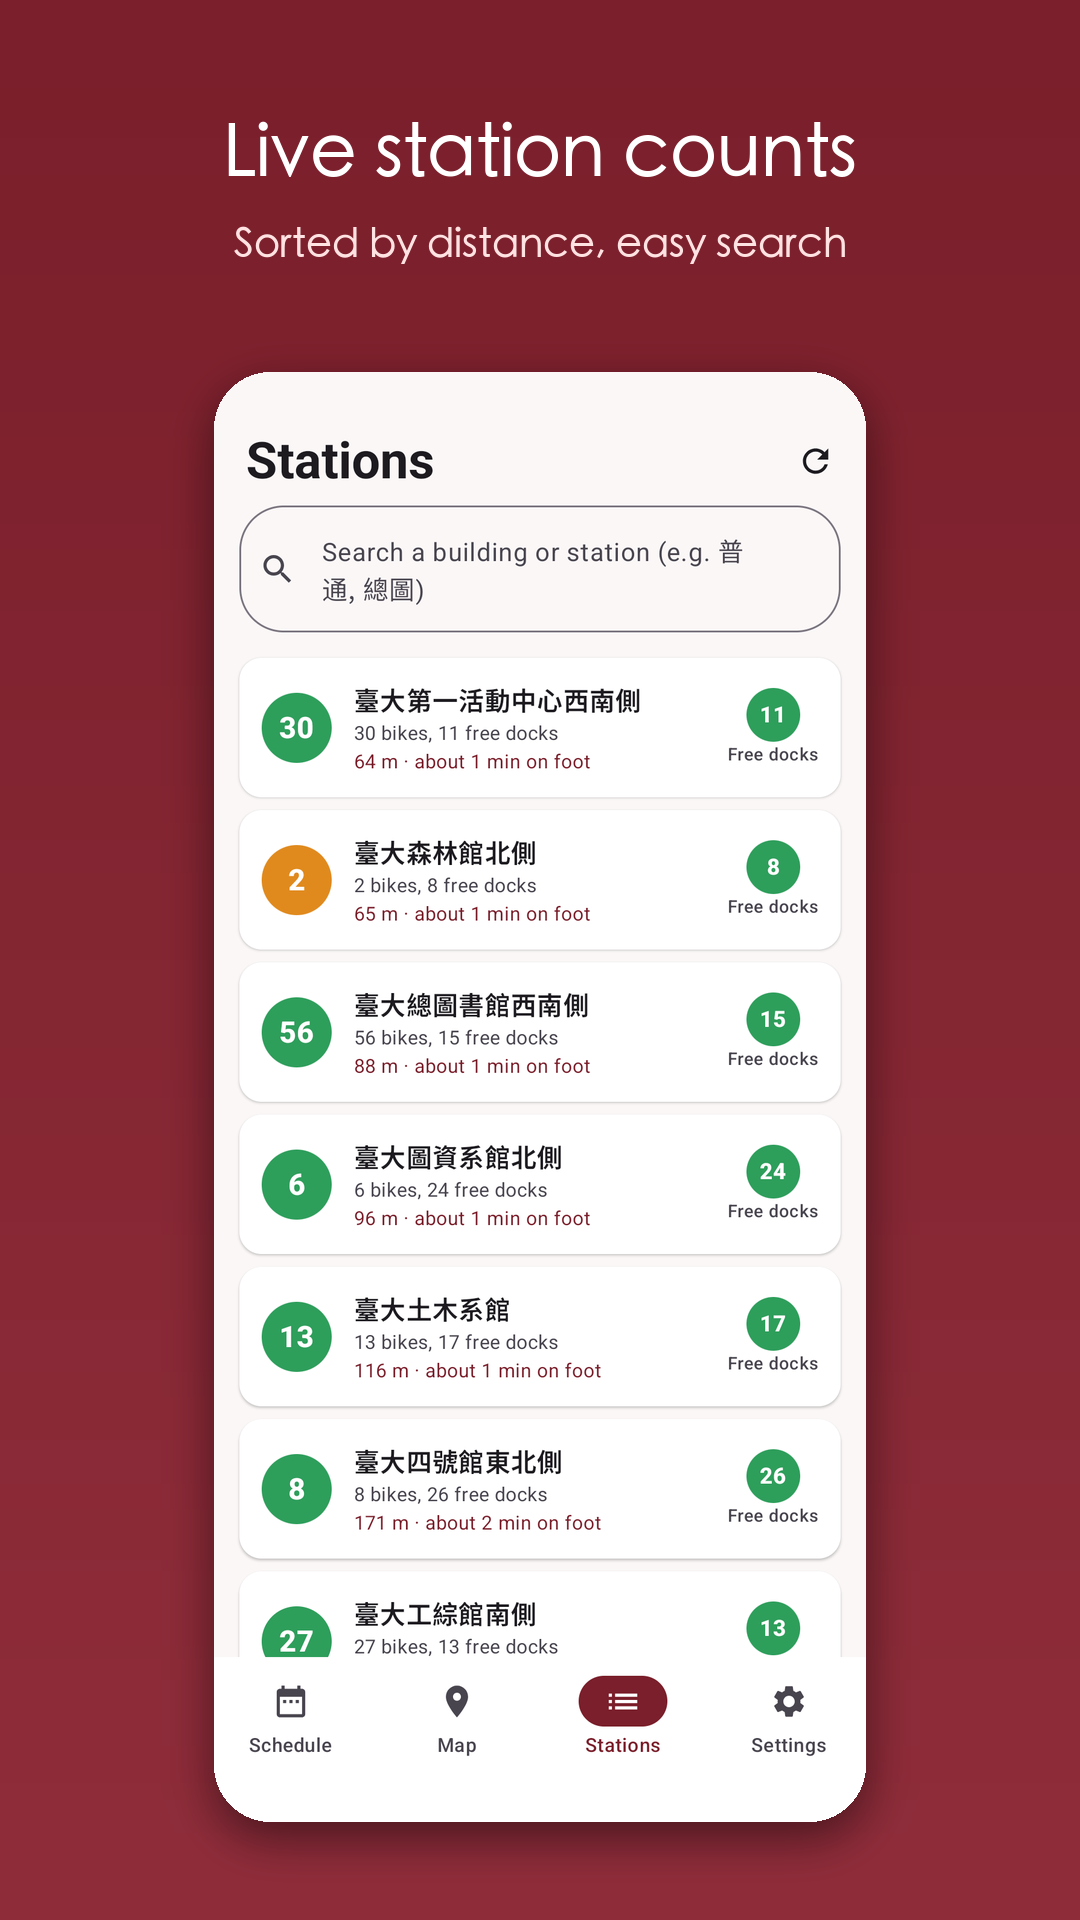
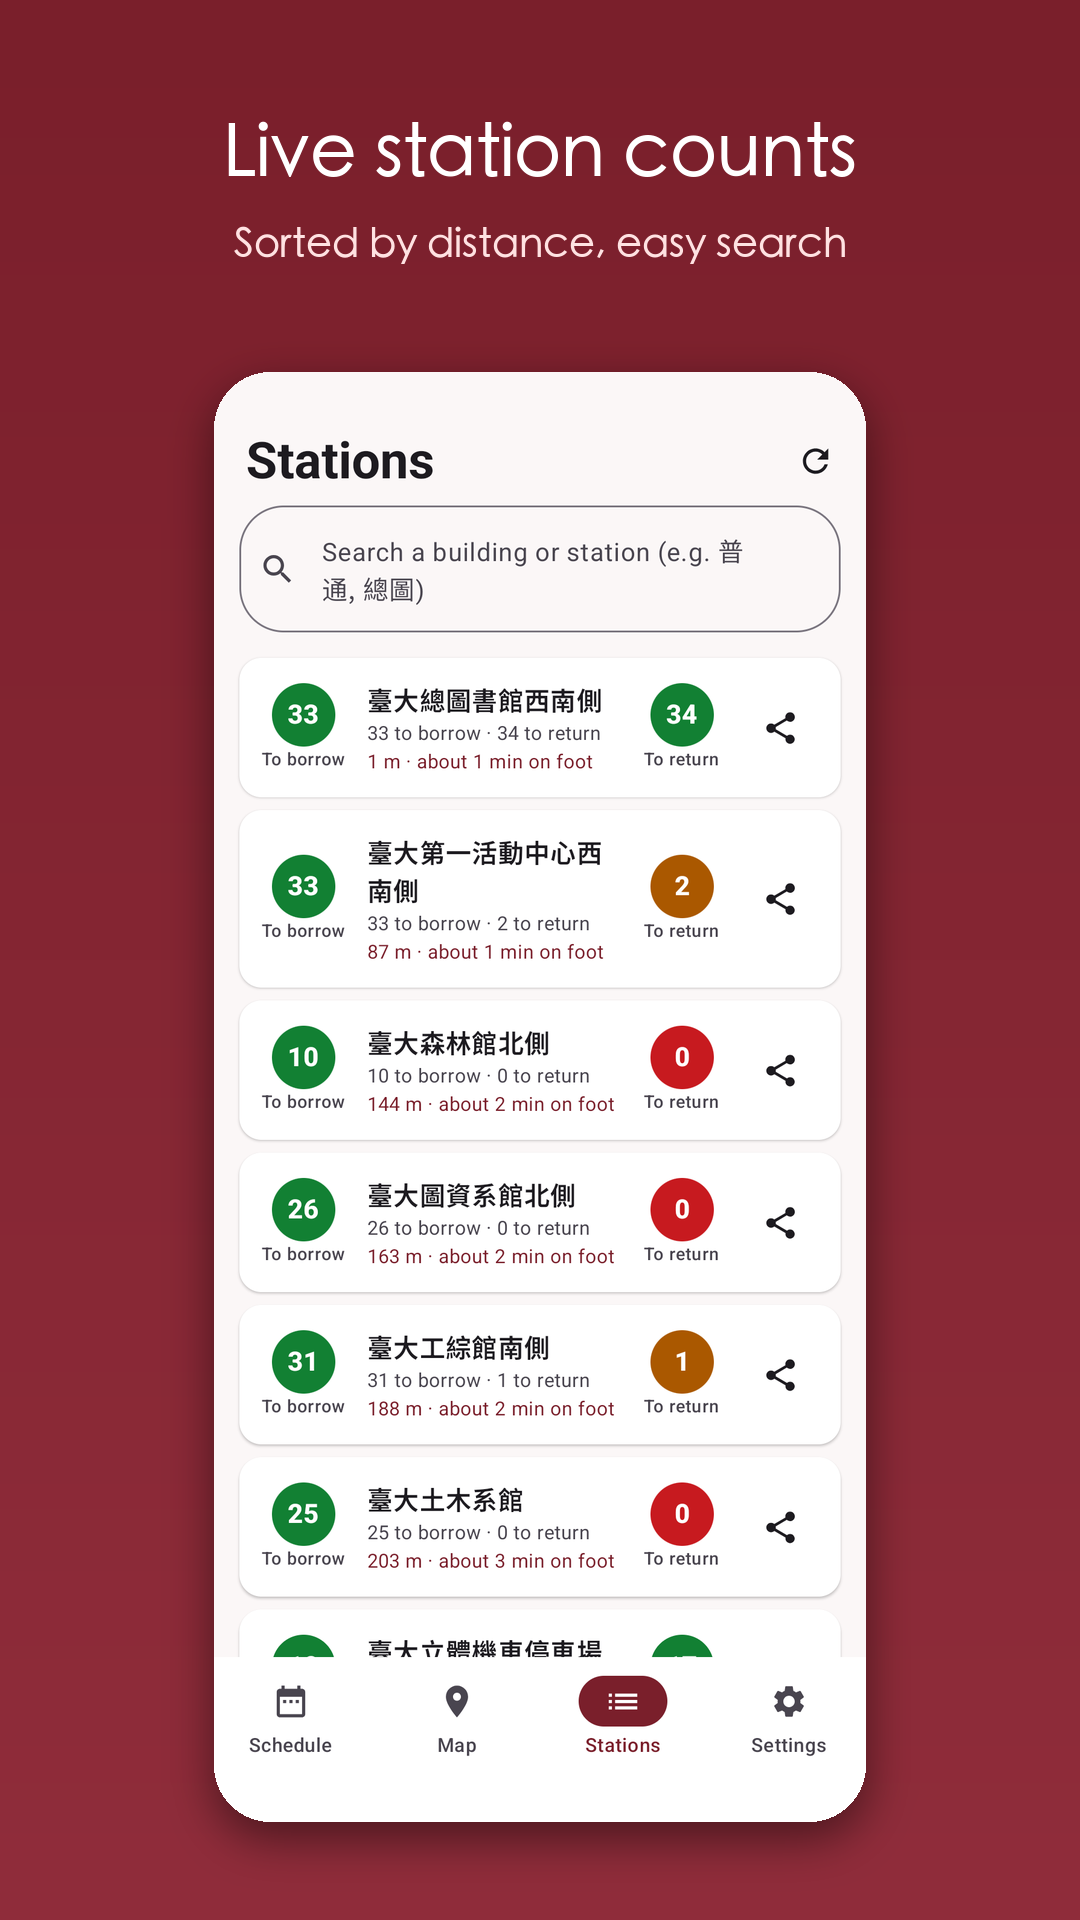
Update for 1.2: new screenshots (iPhone, iPad, Android phone and tablet), features, APK 1.2

Changed region(s): [[0.2444, 0.4375, 0.55, 0.875], [0.5806, 0.4375, 0.7639, 0.875], [0.2444, 0.3438, 0.7639, 0.4062]]

diff --git a/README.ja.md b/README.ja.md
@@ -27,19 +27,27 @@
 - 繁体字中国語・英語・日本語・韓国語に対応
 - 対象ステーション：台大の名前が付くステーションと、その周囲 200 m 以内のステーション（公館駅の出口を含む）。手動更新に対応し、アプリに戻ると自動更新
 - 地図：iOS は Apple マップまたは内蔵のオープンソース地図（OpenStreetMap、閲覧範囲を外部に送信しません）を選べます。Android は内蔵の OpenStreetMap 地図を使用
+- 1.2 の新機能：Siri／ショートカット（「今どこに自転車がある？」「次の授業は？」。繁体字中国語の Siri は iOS 27.3 以上が必要）、ホーム画面・ロック画面のウィジェット、Apple Watch、iMessage でステーションの台数カードを送信、iPad と横向き表示。Android はタブレット表示、ホーム画面ウィジェット、ランチャーのショートカット、ステーション共有
 
 ## スクリーンショット
 
-**iOS**（繁体字中国語 UI）
+**iPhone**
 
 <p>
-<img src="screenshots/ios/01-schedule.png" width="220">
-<img src="screenshots/ios/02-map.png" width="220">
-<img src="screenshots/ios/03-map-osm.png" width="220">
-<img src="screenshots/ios/04-stations.png" width="220">
+<img src="screenshots/ios/01-schedule.png" width="190">
+<img src="screenshots/ios/02-map.png" width="190">
+<img src="screenshots/ios/03-osm-map.png" width="190">
+<img src="screenshots/ios/04-stations.png" width="190">
 </p>
 
-**Android**（英語 UI）
+**iPad（横向き）**
+
+<p>
+<img src="screenshots/ipad/01-schedule.png" width="380">
+<img src="screenshots/ipad/03-osm-map.png" width="380">
+</p>
+
+**Android スマートフォン**
 
 <p>
 <img src="screenshots/android-en/01-schedule.png" width="190">
@@ -48,7 +56,14 @@
 <img src="screenshots/android-en/04-stations.png" width="190">
 </p>
 
-（スクリーンショットは架空の時間割を使用しています。現在は縦向きのみ対応です。）
+**Android タブレット（横向き）**
+
+<p>
+<img src="screenshots/android-tablet-en/04-stations.png" width="380">
+<img src="screenshots/android-tablet-en/03-map.png" width="380">
+</p>
+
+（スクリーンショットは架空の時間割を使用しています。スマートフォンは縦向きのみ、iPad と Android タブレットは横向きにも対応します。iOS は繁体字中国語の UI、Android は英語の UI です。）
 
 ## iOS 版の詳細
 
@@ -59,19 +74,20 @@
 - **データ同期**：時間割・通知時間・建物位置の補正は端末に保存され、**あなた自身の iCloud プライベートデータベース**に同期されます。機種変更時に復元でき、開発者は内容を読めません
 - **必要な権限**：通知（必須・リマインダー用）／位置情報（任意・距離は端末内で計算し、送信しません）／写真（任意・時間割の取り込み時に自分で選んだ画像のみ、端末内で認識）
 - **取り込み**：CSV、ICS、週間時間割のスクリーンショット、手入力
+- **1.2 のその他の機能**：Siri／ショートカットと App Intents、ホーム画面・ロック画面のウィジェット、Apple Watch アプリ（時間割は iPhone から送信）、iMessage 拡張（ステーションを選んで台数カードを友だちに送信）、iPad 対応
 - **プライバシー**：[プライバシーポリシー](https://ntu-bike-notify.nannancat.tw/privacy) ・ [サポート](https://ntu-bike-notify.nannancat.tw/support)。App Store のプライバシー表示では「デバイス ID」と「時間割のコピー」を申告しており、用途はアプリの機能のみで、トラッキングは行いません
 
 ## Android のインストール
 
-1. [Releases](../../releases/latest) から `NTU-Bike-Notify-1.1.apk` をダウンロードします。
+1. [Releases](../../releases/latest) から `NTU-Bike-Notify-1.2.apk` をダウンロードします。
 2. スマートフォンでファイルを開き、確認が出たら（ブラウザ／ファイル）からのインストールを許可します。
 3. アプリを開き、通知を許可します。
 
[1 lines of base64/hex data omitted]
 
 ```
-shasum -a 256 NTU-Bike-Notify-1.1.apk
-apksigner verify --print-certs NTU-Bike-Notify-1.1.apk
+shasum -a 256 NTU-Bike-Notify-1.2.apk
+apksigner verify --print-certs NTU-Bike-Notify-1.2.apk
 ```
 
 > この APK は、今後公開される Google Play 版とは署名鍵が異なります。Play 版を入れる前にこの版をアンインストールしてください。

diff --git a/README.ko.md b/README.ko.md
@@ -27,19 +27,27 @@
 - 번체 중국어, 영어, 일본어, 한국어 지원
 - 대여소 범위: 이름에 대만대가 들어간 대여소와 반경 200 m 이내 대여소(공관역 출구 포함). 수동 새로고침 지원, 앱으로 돌아오면 자동 새로고침
 - 지도: iOS는 Apple 지도 또는 내장 오픈소스 지도(OpenStreetMap, 열람 범위를 외부로 보내지 않음) 선택 가능. Android는 내장 OpenStreetMap 지도 사용
+- 1.2 새 기능: Siri/단축어("지금 어디에 자전거가 있어?", "다음 수업은?"; 번체 중국어 Siri는 iOS 27.3 이상 필요), 홈 화면·잠금 화면 위젯, Apple Watch, iMessage로 대여소 현황 카드 보내기, iPad 및 가로 화면. Android는 태블릿 화면, 홈 화면 위젯, 런처 바로가기, 대여소 공유
 
 ## 스크린샷
 
-**iOS** (번체 중국어 UI)
+**iPhone**
 
 <p>
-<img src="screenshots/ios/01-schedule.png" width="220">
-<img src="screenshots/ios/02-map.png" width="220">
-<img src="screenshots/ios/03-map-osm.png" width="220">
-<img src="screenshots/ios/04-stations.png" width="220">
+<img src="screenshots/ios/01-schedule.png" width="190">
+<img src="screenshots/ios/02-map.png" width="190">
+<img src="screenshots/ios/03-osm-map.png" width="190">
+<img src="screenshots/ios/04-stations.png" width="190">
 </p>
 
-**Android** (영어 UI)
+**iPad (가로)**
+
+<p>
+<img src="screenshots/ipad/01-schedule.png" width="380">
+<img src="screenshots/ipad/03-osm-map.png" width="380">
+</p>
+
+**Android 휴대폰**
 
 <p>
 <img src="screenshots/android-en/01-schedule.png" width="190">
@@ -48,7 +56,14 @@
 <img src="screenshots/android-en/04-stations.png" width="190">
 </p>
 
-(스크린샷은 가상의 시간표를 사용했습니다. 앱은 현재 세로 방향만 지원합니다.)
+**Android 태블릿 (가로)**
+
+<p>
+<img src="screenshots/android-tablet-en/04-stations.png" width="380">
+<img src="screenshots/android-tablet-en/03-map.png" width="380">
+</p>
+
+(스크린샷은 가상의 시간표를 사용했습니다. 휴대폰은 세로 방향만, iPad와 Android 태블릿은 가로 방향도 지원합니다. iOS는 번체 중국어 UI, Android는 영어 UI입니다.)
 
 ## iOS 상세 정보
 
@@ -59,19 +74,20 @@
 - **데이터 동기화**: 시간표, 알림 시간, 건물 위치 보정은 기기에 저장되고 **본인의 iCloud 개인 데이터베이스**에 동기화됩니다. 새 휴대폰에서 복원할 수 있으며 개발자는 내용을 볼 수 없습니다
 - **필요한 권한**: 알림(필수, 리마인더용) / 위치(선택, 거리는 기기에서 계산하며 전송하지 않음) / 사진(선택, 시간표를 가져올 때 직접 고른 이미지만, 기기 안에서 인식)
 - **가져오기**: CSV, ICS, 주간 시간표 스크린샷, 직접 입력
+- **그 밖의 1.2 기능**: Siri/단축어와 App Intents, 홈 화면·잠금 화면 위젯, Apple Watch 앱(시간표는 iPhone에서 전송), iMessage 확장(대여소를 골라 자전거 수 카드를 친구에게 전송), iPad 레이아웃
 - **개인정보**: [개인정보 처리방침](https://ntu-bike-notify.nannancat.tw/privacy) · [지원](https://ntu-bike-notify.nannancat.tw/support). App Store 개인정보 항목에는 "기기 ID"와 "시간표 사본"을 신고했으며, 앱 기능에만 사용하고 추적하지 않습니다
 
 ## Android 설치
 
-1. [Releases](../../releases/latest)에서 `NTU-Bike-Notify-1.1.apk`를 다운로드합니다.
+1. [Releases](../../releases/latest)에서 `NTU-Bike-Notify-1.2.apk`를 다운로드합니다.
 2. 휴대폰에서 파일을 열고, 안내가 나오면 해당 출처(브라우저 / 파일)의 앱 설치를 허용합니다.
 3. 앱을 열고 알림을 허용합니다.
 
[1 lines of base64/hex data omitted]
 
 ```
-shasum -a 256 NTU-Bike-Notify-1.1.apk
-apksigner verify --print-certs NTU-Bike-Notify-1.1.apk
+shasum -a 256 NTU-Bike-Notify-1.2.apk
+apksigner verify --print-certs NTU-Bike-Notify-1.2.apk
 ```
 
 > 이 APK는 이후 출시될 Google Play 버전과 서명 키가 다릅니다. Play 버전을 설치하기 전에 이 버전을 먼저 삭제하세요.

diff --git a/README.en.md b/README.en.md
@@ -27,19 +27,27 @@ A reminder app for bike-sharing stations on the National Taiwan University (NTU)
 - Traditional Chinese, English, Japanese, Korean
 - Station coverage: NTU-named stations plus any station within 200 m (including Gongguan MRT exits); manual refresh, and auto-refresh when you return to the app
 - Maps: iOS offers Apple Maps or a built-in open-source map (OpenStreetMap, no browsing area sent out); Android uses the built-in OpenStreetMap map
+- New in 1.2: Siri / Shortcuts (ask "where are bikes now" or "next class"; Siri in Traditional Chinese needs iOS 27.3 or later), home-screen and Lock Screen widgets, Apple Watch, iMessage station cards, iPad and landscape layouts; on Android, tablet layouts, a home-screen widget, launcher shortcuts and station sharing
 
 ## Screenshots
 
-**iOS** (Traditional Chinese UI)
+**iPhone**
 
 <p>
-<img src="screenshots/ios/01-schedule.png" width="220">
-<img src="screenshots/ios/02-map.png" width="220">
-<img src="screenshots/ios/03-map-osm.png" width="220">
-<img src="screenshots/ios/04-stations.png" width="220">
+<img src="screenshots/ios/01-schedule.png" width="190">
+<img src="screenshots/ios/02-map.png" width="190">
+<img src="screenshots/ios/03-osm-map.png" width="190">
+<img src="screenshots/ios/04-stations.png" width="190">
 </p>
 
-**Android** (English UI)
+**iPad (landscape)**
+
+<p>
+<img src="screenshots/ipad/01-schedule.png" width="380">
+<img src="screenshots/ipad/03-osm-map.png" width="380">
+</p>
+
+**Android phone**
 
 <p>
 <img src="screenshots/android-en/01-schedule.png" width="190">
@@ -48,7 +56,14 @@ A reminder app for bike-sharing stations on the National Taiwan University (NTU)
 <img src="screenshots/android-en/04-stations.png" width="190">
 </p>
 
-(Screenshots use a fictional schedule. The app currently supports portrait orientation only.)
+**Android tablet (landscape)**
+
+<p>
+<img src="screenshots/android-tablet-en/04-stations.png" width="380">
+<img src="screenshots/android-tablet-en/03-map.png" width="380">
+</p>
+
+(Screenshots use a fictional schedule. Phones support portrait only; iPad and Android tablets support landscape. The iOS screenshots show the Traditional Chinese UI.)
 
 ## iOS details
 
@@ -59,19 +74,20 @@ A reminder app for bike-sharing stations on the National Taiwan University (NTU)
 - **Data sync**: your schedule, reminder time and building corrections are stored on the device and synced to **your own private iCloud database**, so they restore on a new phone; the developer cannot read them
 - **Permissions**: Notifications (required, for reminders); Location (optional, distances are computed on your phone and never uploaded); Photos (optional, only the screenshot you pick manually when importing a schedule, recognized on-device)
 - **Import**: CSV, ICS, weekly-schedule screenshot, or manual entry
+- **Other 1.2 features**: Siri / Shortcuts and App Intents, home-screen and Lock Screen widgets, Apple Watch app (schedule is sent from the iPhone), iMessage extension (pick a station and send a bike-count card to a friend), iPad layouts
 - **Privacy**: [Privacy policy](https://ntu-bike-notify.nannancat.tw/privacy) · [Support](https://ntu-bike-notify.nannancat.tw/support). App Store privacy labels declare "Device ID" and "Schedule copy", used only for app functionality, no tracking
 
 ## Android installation
 
-1. Download `NTU-Bike-Notify-1.1.apk` from [Releases](../../releases/latest).
+1. Download `NTU-Bike-Notify-1.2.apk` from [Releases](../../releases/latest).
 2. Open the file on your phone; if prompted, allow installing apps from this source (browser / Files).
 3. Open the app and allow notifications.
 
[1 lines of base64/hex data omitted]
 
 ```
-shasum -a 256 NTU-Bike-Notify-1.1.apk
-apksigner verify --print-certs NTU-Bike-Notify-1.1.apk
+shasum -a 256 NTU-Bike-Notify-1.2.apk
+apksigner verify --print-certs NTU-Bike-Notify-1.2.apk
 ```
 
 > This APK uses a different signing key from the future Google Play version; uninstall it before installing the Play version.

diff --git a/README.md b/README.md
@@ -27,19 +27,27 @@ A class-schedule-aware reminder for bike-sharing stations on the NTU campus (Tai
 - 繁中、English、日本語、한국어
 - 站點範圍：臺大站＋周邊 200 公尺內的站（含公館站出口）；可手動更新，回到 App 時自動更新
 - 地圖：iOS 可選 Apple 地圖或內建開源地圖（OpenStreetMap，不送出瀏覽範圍）；Android 使用內建 OpenStreetMap 地圖
+- 1.2 新增：Siri／捷徑（問「現在哪裡有車」「下一堂課」；繁體中文 Siri 需 iOS 27.3 以上）、桌面與鎖定畫面小工具、Apple Watch、iMessage 傳送站點車數、iPad 與橫向畫面；Android 平板版面、桌面小工具、桌面長按捷徑、站點分享
 
 ## 截圖
 
-**iOS**
+**iPhone**
 
 <p>
-<img src="screenshots/ios/01-schedule.png" width="220">
-<img src="screenshots/ios/02-map.png" width="220">
-<img src="screenshots/ios/03-map-osm.png" width="220">
-<img src="screenshots/ios/04-stations.png" width="220">
+<img src="screenshots/ios/01-schedule.png" width="190">
+<img src="screenshots/ios/02-map.png" width="190">
+<img src="screenshots/ios/03-osm-map.png" width="190">
+<img src="screenshots/ios/04-stations.png" width="190">
 </p>
 
-**Android**
+**iPad（橫向）**
+
+<p>
+<img src="screenshots/ipad/01-schedule.png" width="380">
+<img src="screenshots/ipad/03-osm-map.png" width="380">
+</p>
+
+**Android 手機**
 
 <p>
 <img src="screenshots/android/01-schedule.png" width="190">
@@ -48,7 +56,14 @@ A class-schedule-aware reminder for bike-sharing stations on the NTU campus (Tai
 <img src="screenshots/android/04-stations.png" width="190">
 </p>
 
-（截圖使用虛構課表。App 目前只支援直向。）
+**Android 平板（橫向）**
+
+<p>
+<img src="screenshots/android-tablet/04-stations.png" width="380">
+<img src="screenshots/android-tablet/03-map.png" width="380">
+</p>
+
+（截圖使用虛構課表。手機版目前只支援直向；iPad 與 Android 平板支援橫向。）
 
 ## iOS 版詳細資訊
 
@@ -62,11 +77,12 @@ A class-schedule-aware reminder for bike-sharing stations on the NTU campus (Tai
   - 定位（選用）：只在手機上計算站點距離，不會上傳
   - 相簿（選用）：匯入週課表截圖時由你手動選圖，辨識在手機上完成
 - **匯入課表**：CSV、ICS、週課表截圖，或手動輸入
+- **其他 1.2 功能**：Siri／捷徑與 App Intents、桌面與鎖定畫面小工具、Apple Watch App（課表由 iPhone 傳到手錶）、iMessage 擴充（選站點，把車數卡片傳給朋友）、iPad 版面
 - **隱私**：[隱私權政策](https://ntu-bike-notify.nannancat.tw/privacy) · [支援](https://ntu-bike-notify.nannancat.tw/support)；App Store 隱私標籤申報為「裝置識別碼」與「課表副本」，僅供 App 功能使用、不追蹤
 
 ## Android 安裝
 
-1. 到 [Releases](../../releases/latest) 下載 `NTU-Bike-Notify-1.1.apk`。
+1. 到 [Releases](../../releases/latest) 下載 `NTU-Bike-Notify-1.2.apk`。
 2. 用手機開啟檔案；若系統詢問，允許「瀏覽器／檔案」安裝未知來源的應用程式。
 3. 開啟 App，允許通知，即可使用。
 
@@ -74,8 +90,8 @@ A class-schedule-aware reminder for bike-sharing stations on the NTU campus (Tai
[1 lines of base64/hex data omitted]
 
 ```
-shasum -a 256 NTU-Bike-Notify-1.1.apk
-apksigner verify --print-certs NTU-Bike-Notify-1.1.apk
+shasum -a 256 NTU-Bike-Notify-1.2.apk
+apksigner verify --print-certs NTU-Bike-Notify-1.2.apk
 ```
 
 > 此 APK 與日後 Google Play 版的簽署金鑰不同；改裝 Play 版前需先解除安裝此版本。
